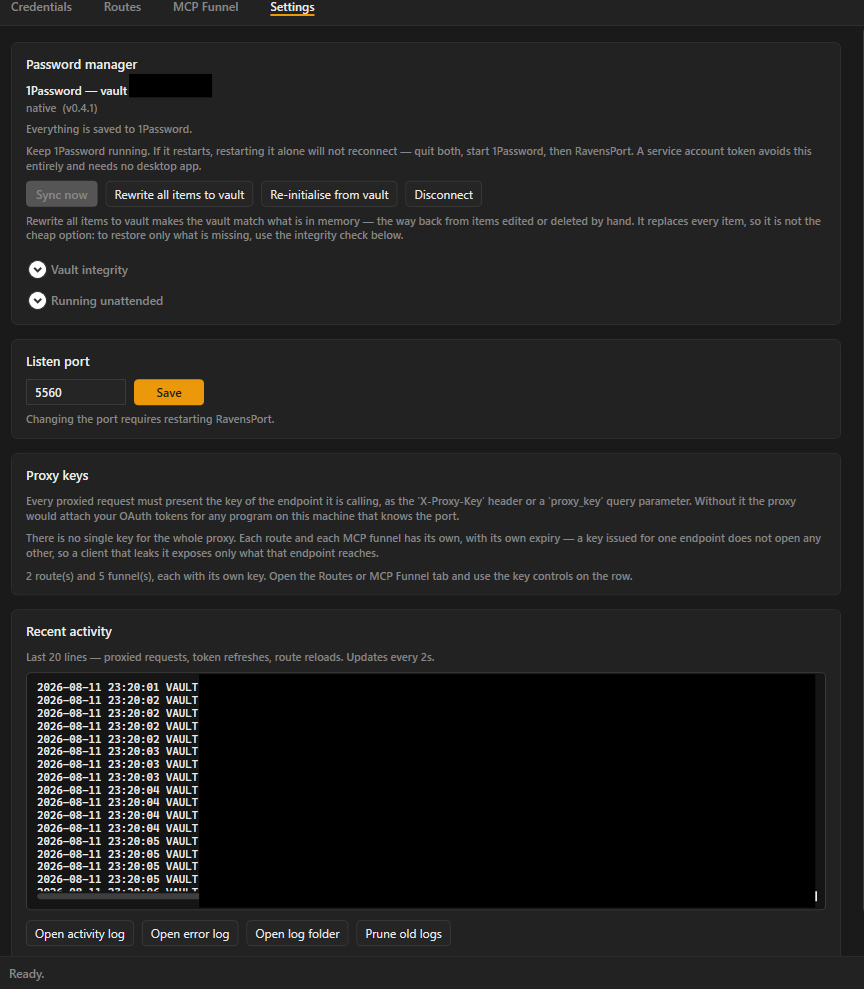
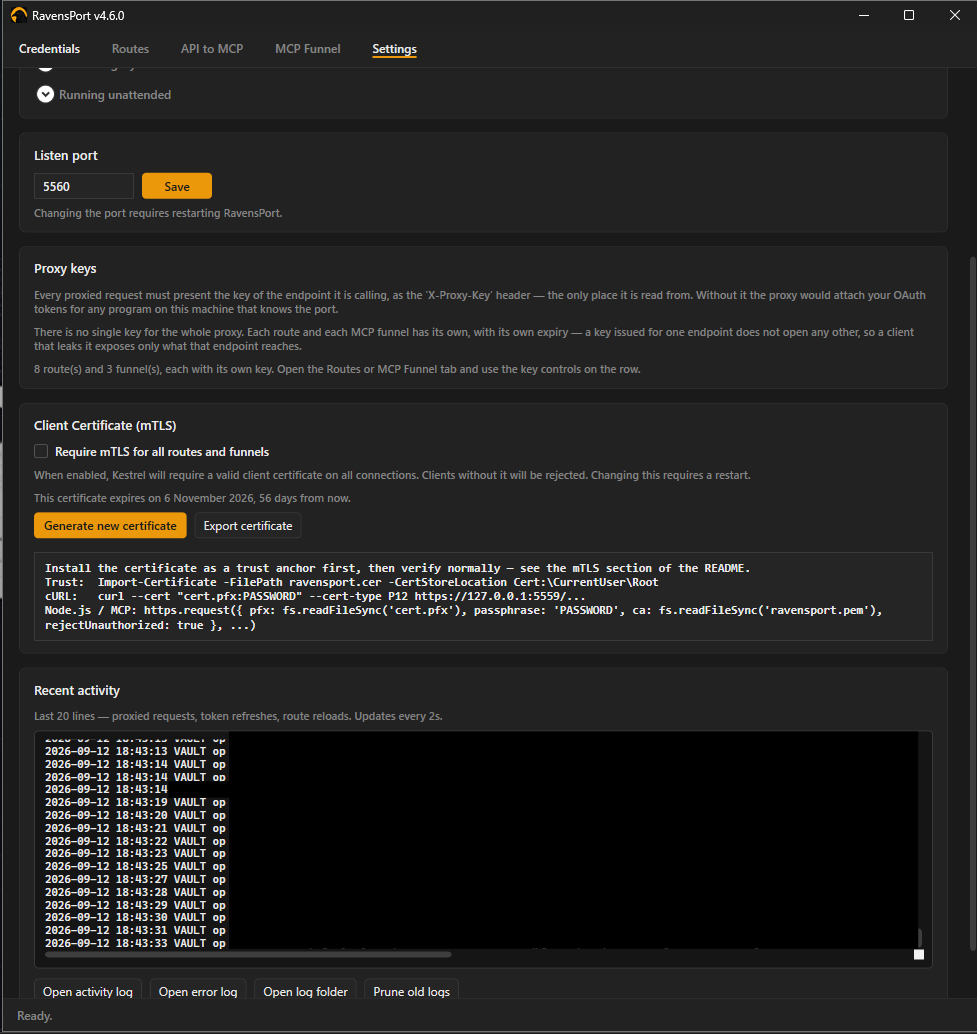
docs: add the API to MCP tab screenshot, refresh the others
The API to MCP section had no picture of the tab it describes. Adds one
after the intro, and refreshes the routes, funnel, credentials, and
settings shots to match the current UI.

diff --git a/README.md b/README.md
@@ -487,6 +487,8 @@ worth offering to an agent and what to call them.
 Point an agent straight at a bridge, or add it as a source on the **MCP Funnel** tab and pool it
 with everything else.
 
+[![API to MCP tab](media/apiMcpBridgeScreen.png)](media/apiMcpBridgeScreen.png)
+
 ### 1. Pick a route and write a manifest
 
 On the **API to MCP** tab, press **Load sample** for a worked example using every part of the
